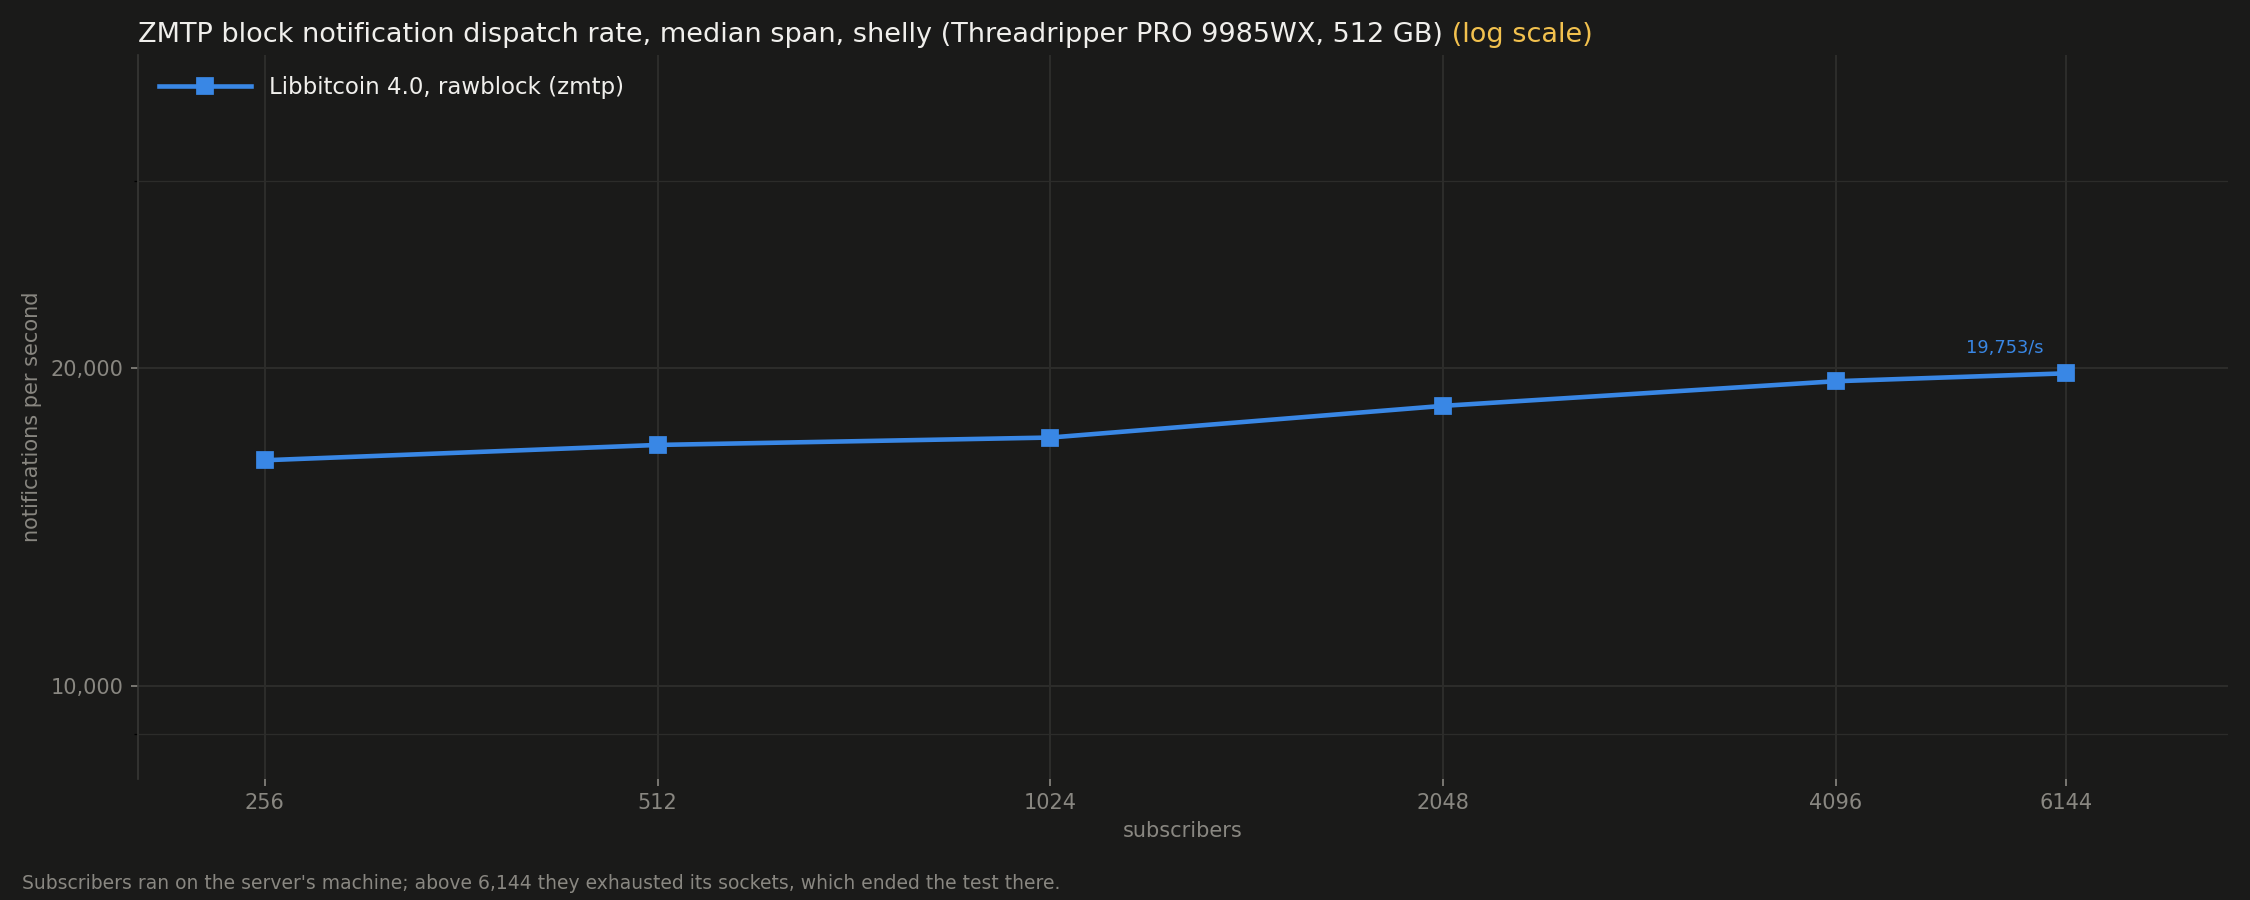
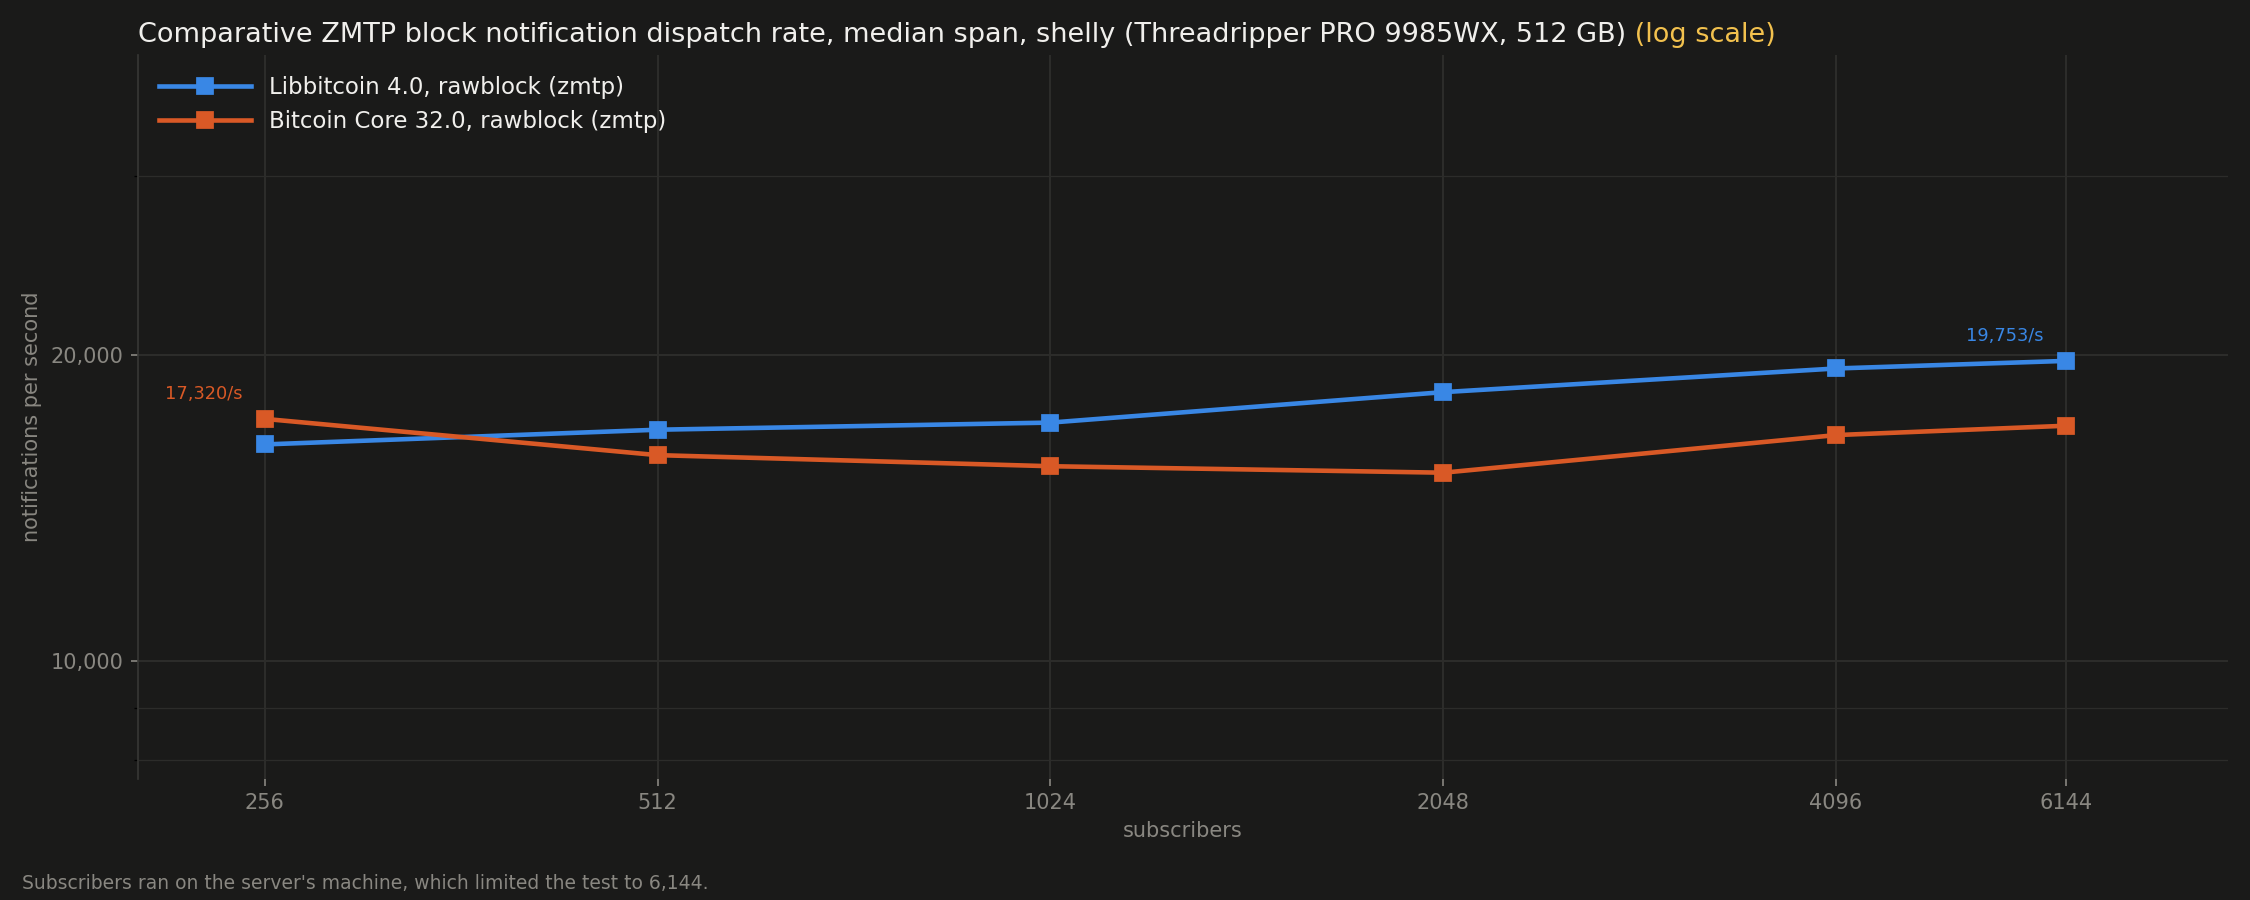
Update zmq block notification by adding bc to plot.

diff --git a/interface-performance.html b/interface-performance.html
@@ -472,8 +472,8 @@
         <img src="performance/server-dispatch-zmq.png" alt="Transaction notification dispatch rate: comparative (log scale)" loading="lazy">
       </figure>
       <figure class="shot" data-full="performance/server-dispatch-zmq-block.png" tabindex="0">
-        <h3>Block notification dispatch rate (log scale)</h3>
-        <img src="performance/server-dispatch-zmq-block.png" alt="Block notification dispatch rate (log scale)" loading="lazy">
+        <h3>Block notification dispatch rate: comparative (log scale)</h3>
+        <img src="performance/server-dispatch-zmq-block.png" alt="Block notification dispatch rate: comparative (log scale)" loading="lazy">
       </figure>
       <figure class="shot" data-full="performance/server-zmq.png" tabindex="0">
         <h3>Chain object rate: comparative (log scale)</h3>
@@ -490,11 +490,15 @@
       8 to 10 ms.
     </p>
     <p class="lede after">
-      Block dispatch is measured with 256 to 6,144 rawblock subscribers on one ZMTP endpoint
-      (Libbitcoin only), while one P2P peer offers blocks 950,001 to 950,009 (1.4 to 2.4 MB) 6 seconds
-      apart. The rate is taken as for transactions. At 6,144 subscribers Libbitcoin delivers each
-      block to all of them in about 310 ms, and the rate rises from about 16,000 to 20,000 per second
-      as subscribers increase.
+      Block dispatch is measured with 256 to 6,144 rawblock subscribers on one ZMTP endpoint, while
+      one P2P peer offers nine blocks 6 seconds apart. The rate is taken as for transactions. At
+      6,144 subscribers Libbitcoin delivers each block to all of them in about 310 ms, Bitcoin Core in
+      about 360 ms. As subscribers increase, the Libbitcoin rate rises from about 16,000 to 20,000 per
+      second, and the Bitcoin Core rate stays between 15,000 and 17,500. On Windows, Defender network
+      inspection, Web Threat Defense and the Windows Firewall examine each TCP send under a shared
+      kernel lock. Libbitcoin sends to subscribers in parallel and spends about half of its delivery
+      CPU waiting on that lock. Bitcoin Core sends from a single thread, so the same inspection does
+      not contend.
     </p>
     <p class="lede after">
       The chain object rate times each of the 28,142 transactions of blocks 950,001 to 950,009,
